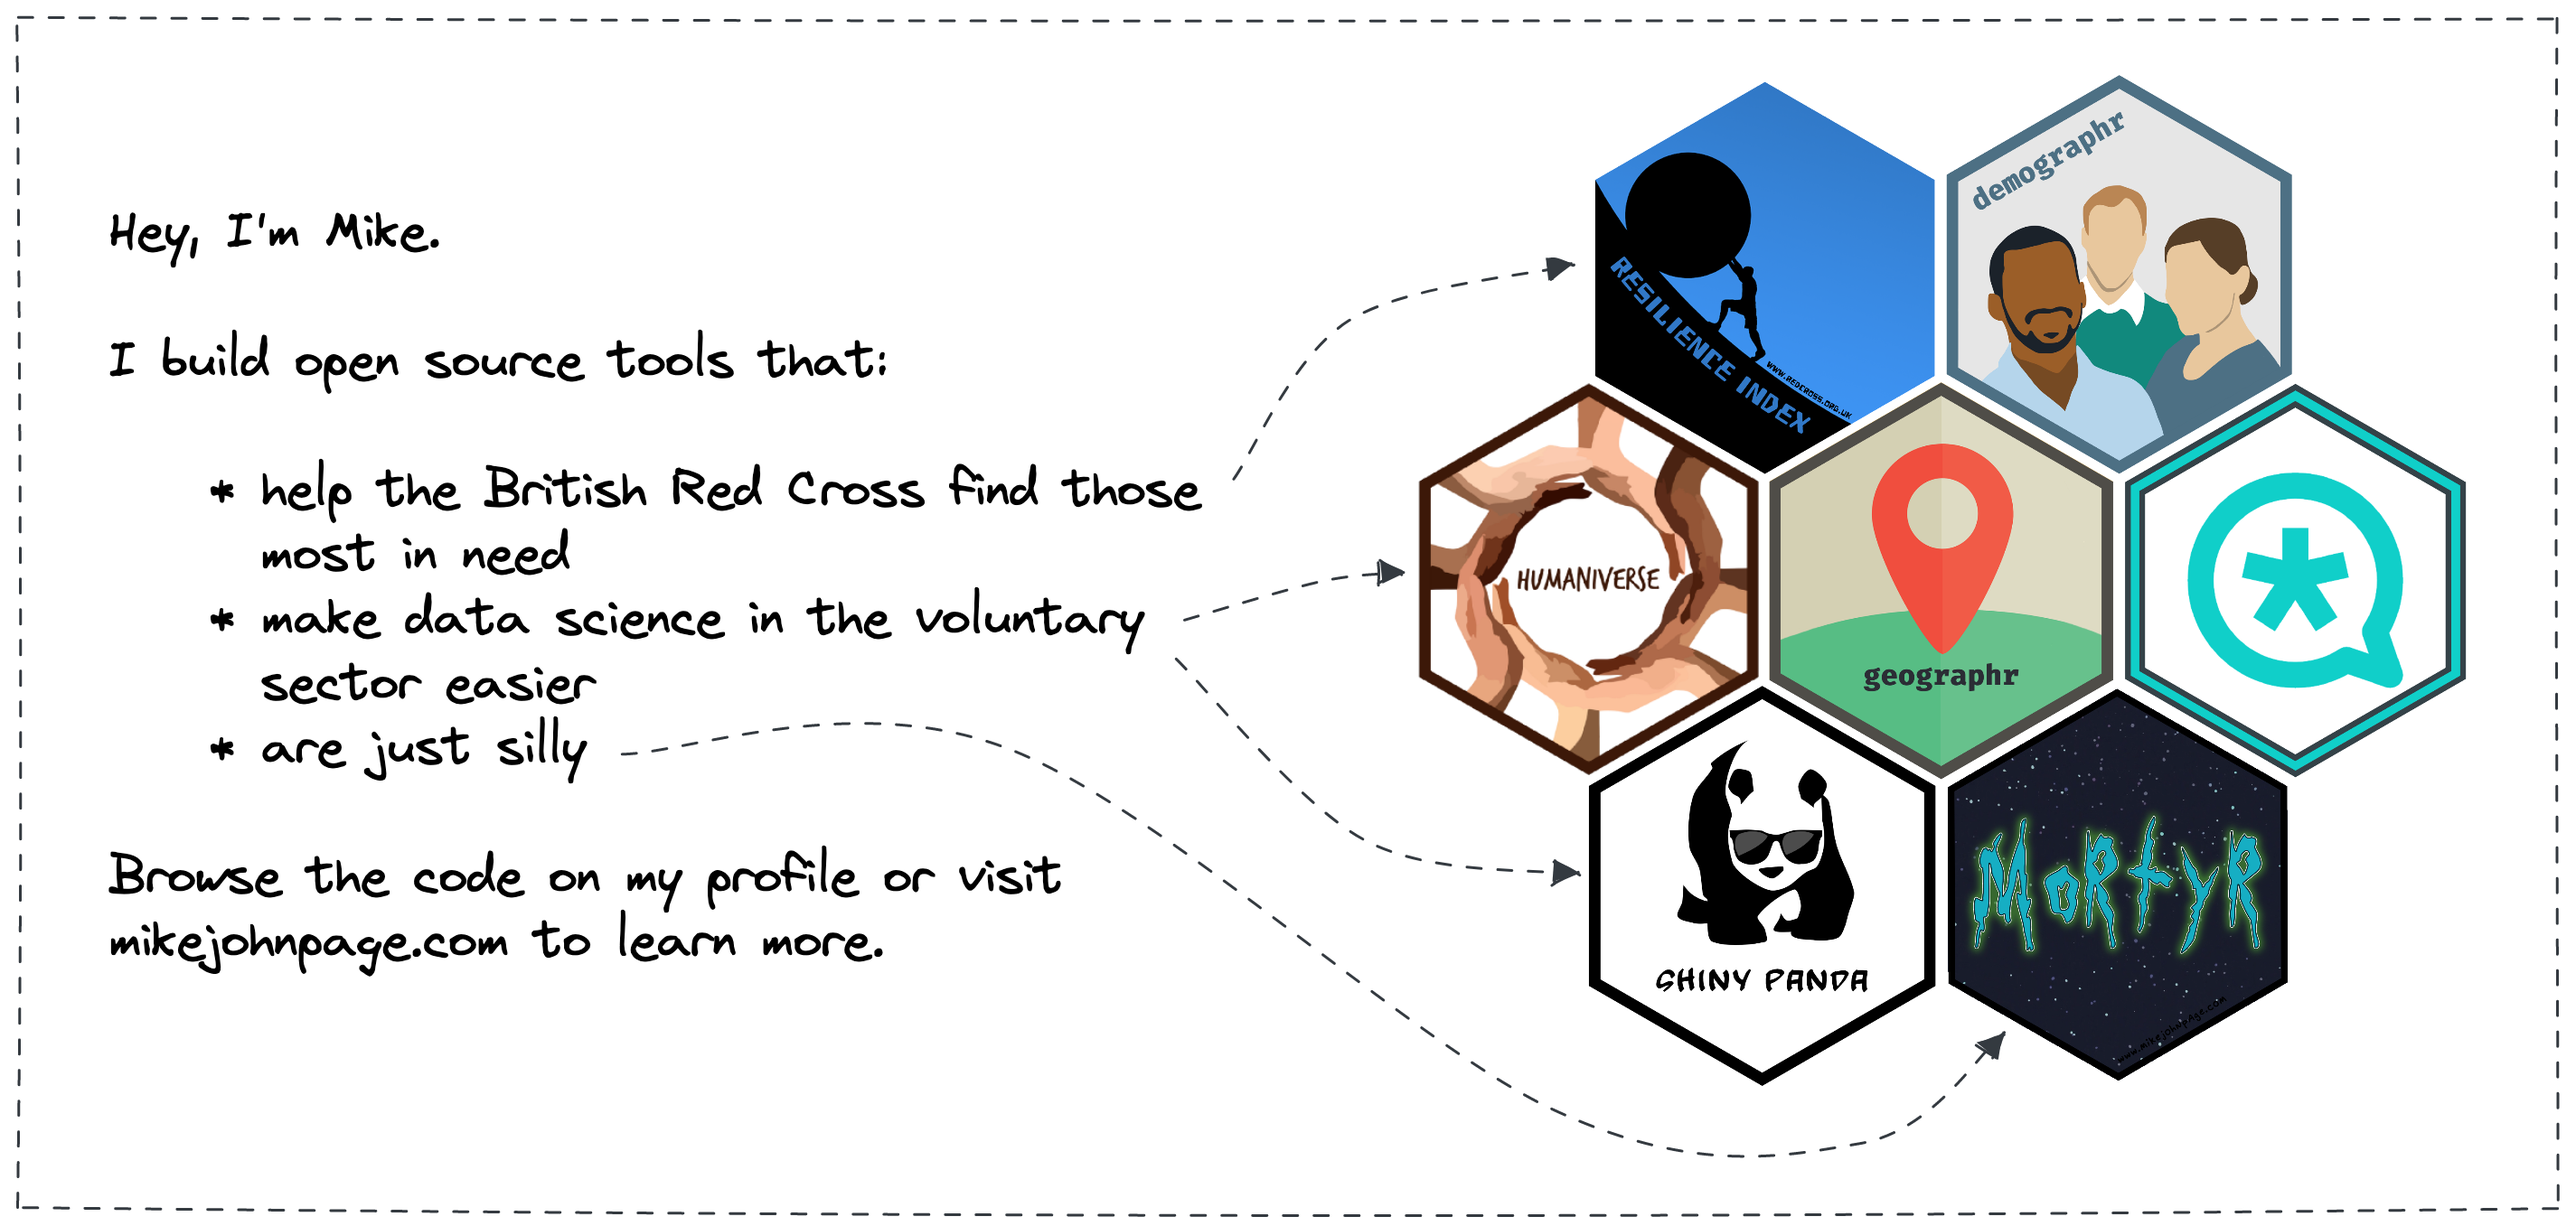
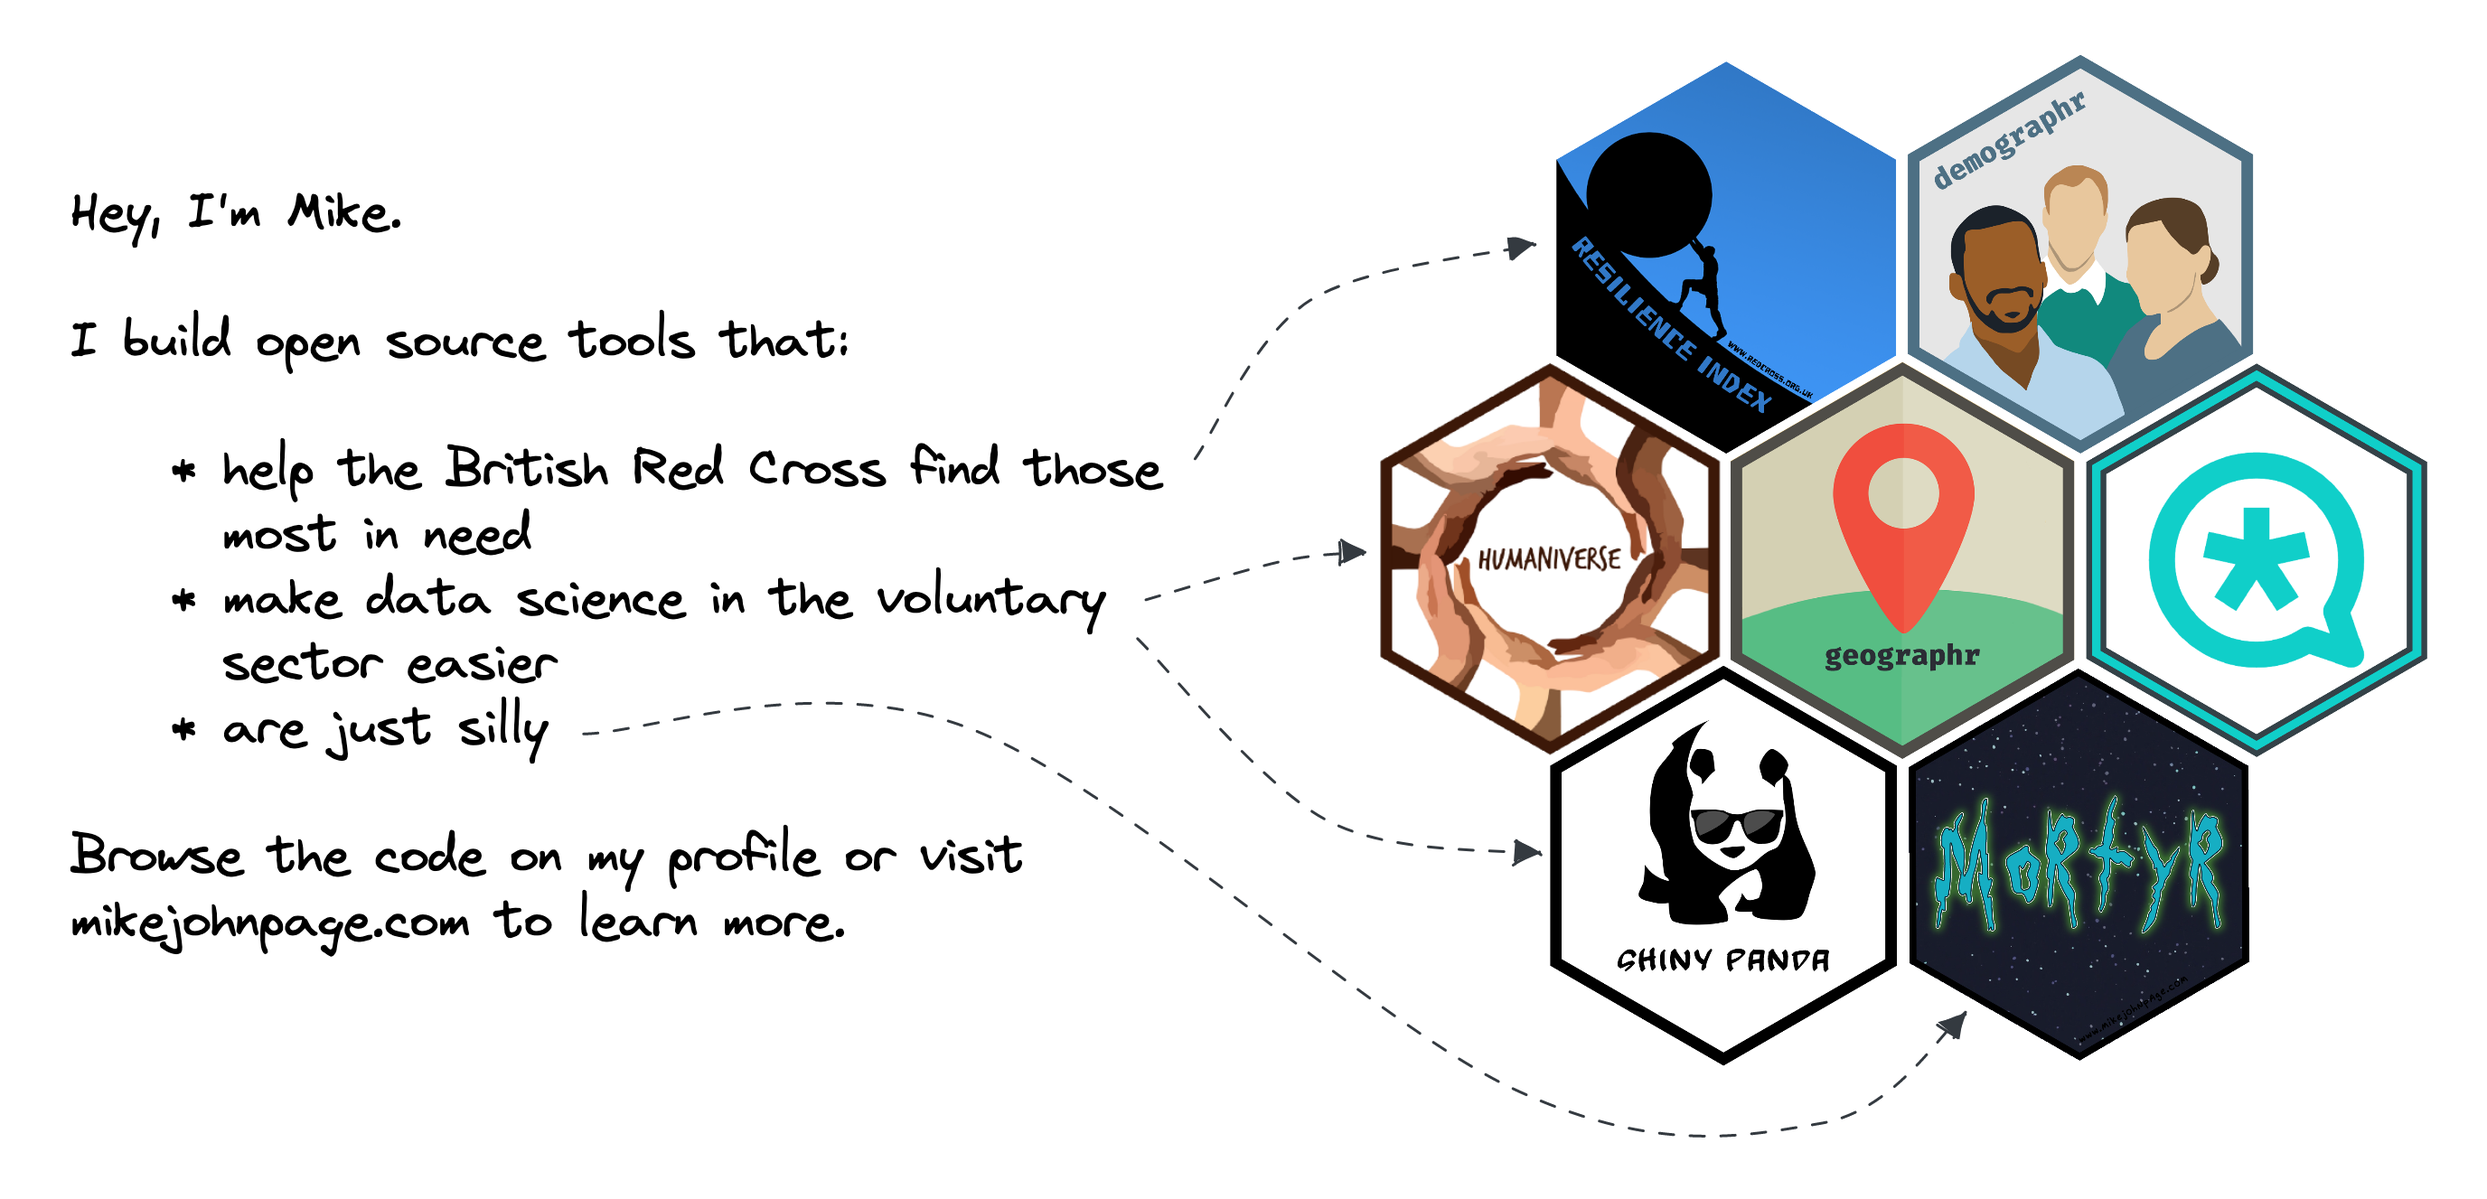
Update

diff --git a/README.md b/README.md
@@ -1,1 +1,1 @@
-<img src='figures/profile-invisible-box.png' align="centre"/>
+<img src='figures/profile-box.png' align="centre"/>
